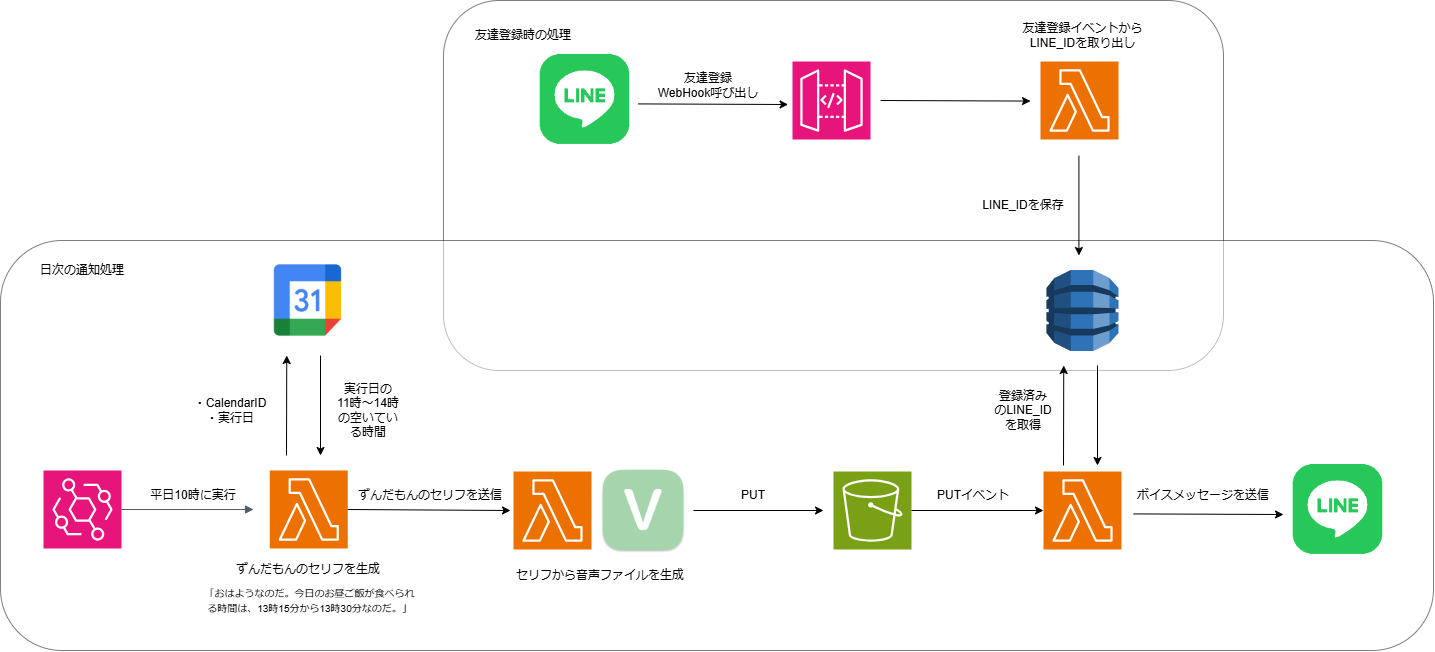
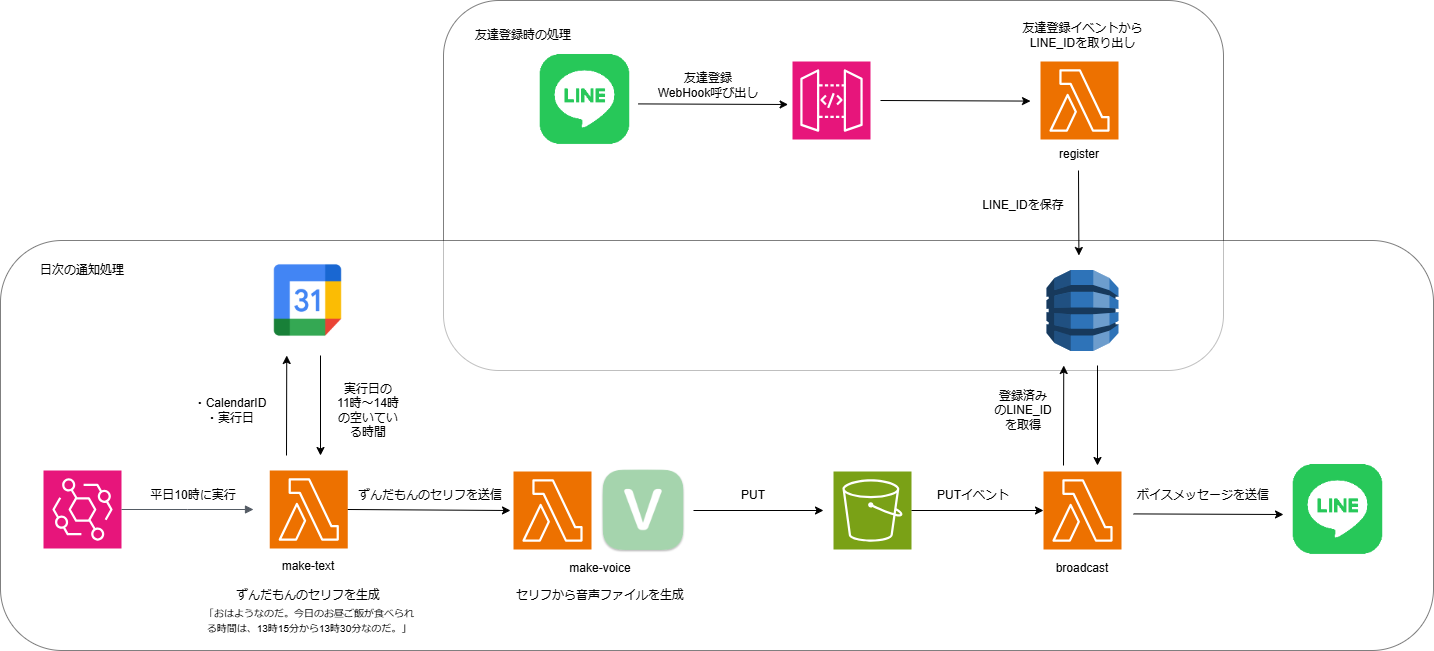
fix registry -> register. make description.

diff --git a/README.md b/README.md
@@ -1,6 +1,7 @@
 # zunda-lunchtime-bot
 
-ずんだもんがお昼ご飯を食べられる時間を教えてくれるのだ。
+家族の予定をまとめたGoogleカレンダーを作って、ずんだもんBotと友達になるとお昼ご飯を食べられる時間を教えてくれるのだ。
+
+構成図
 
 <img src="./zunda-lunchtime-bot-arch.png">
-
